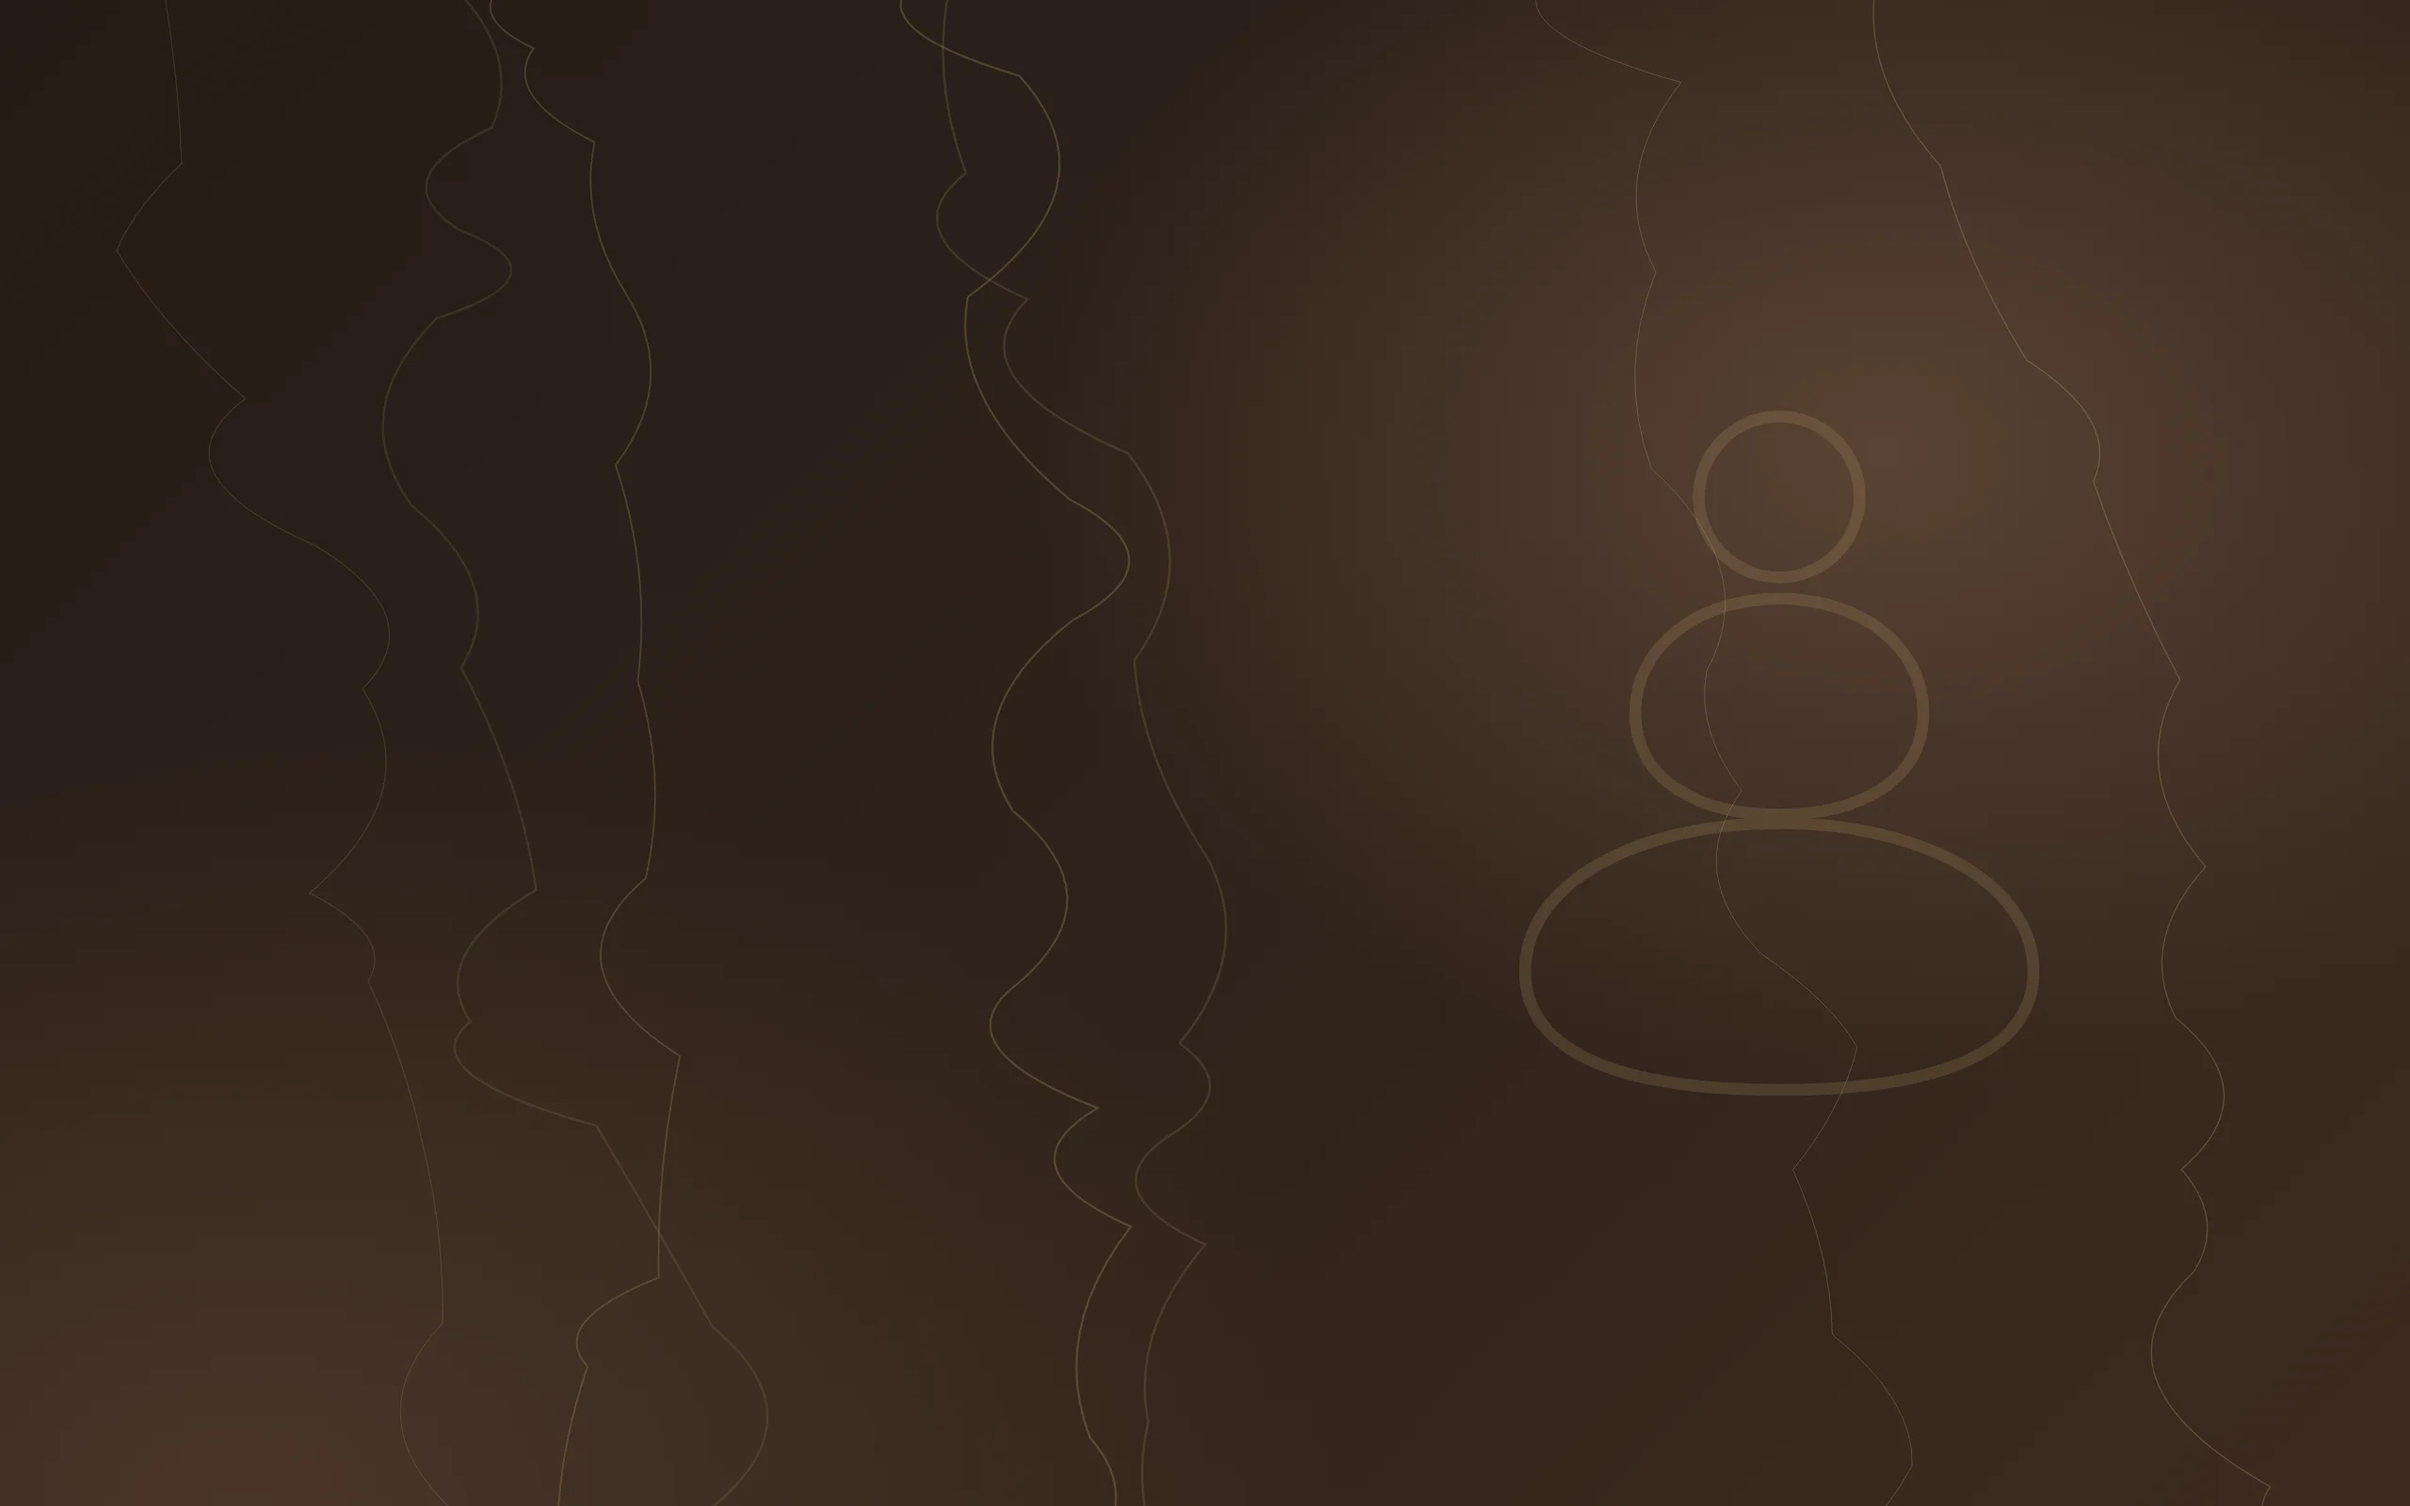
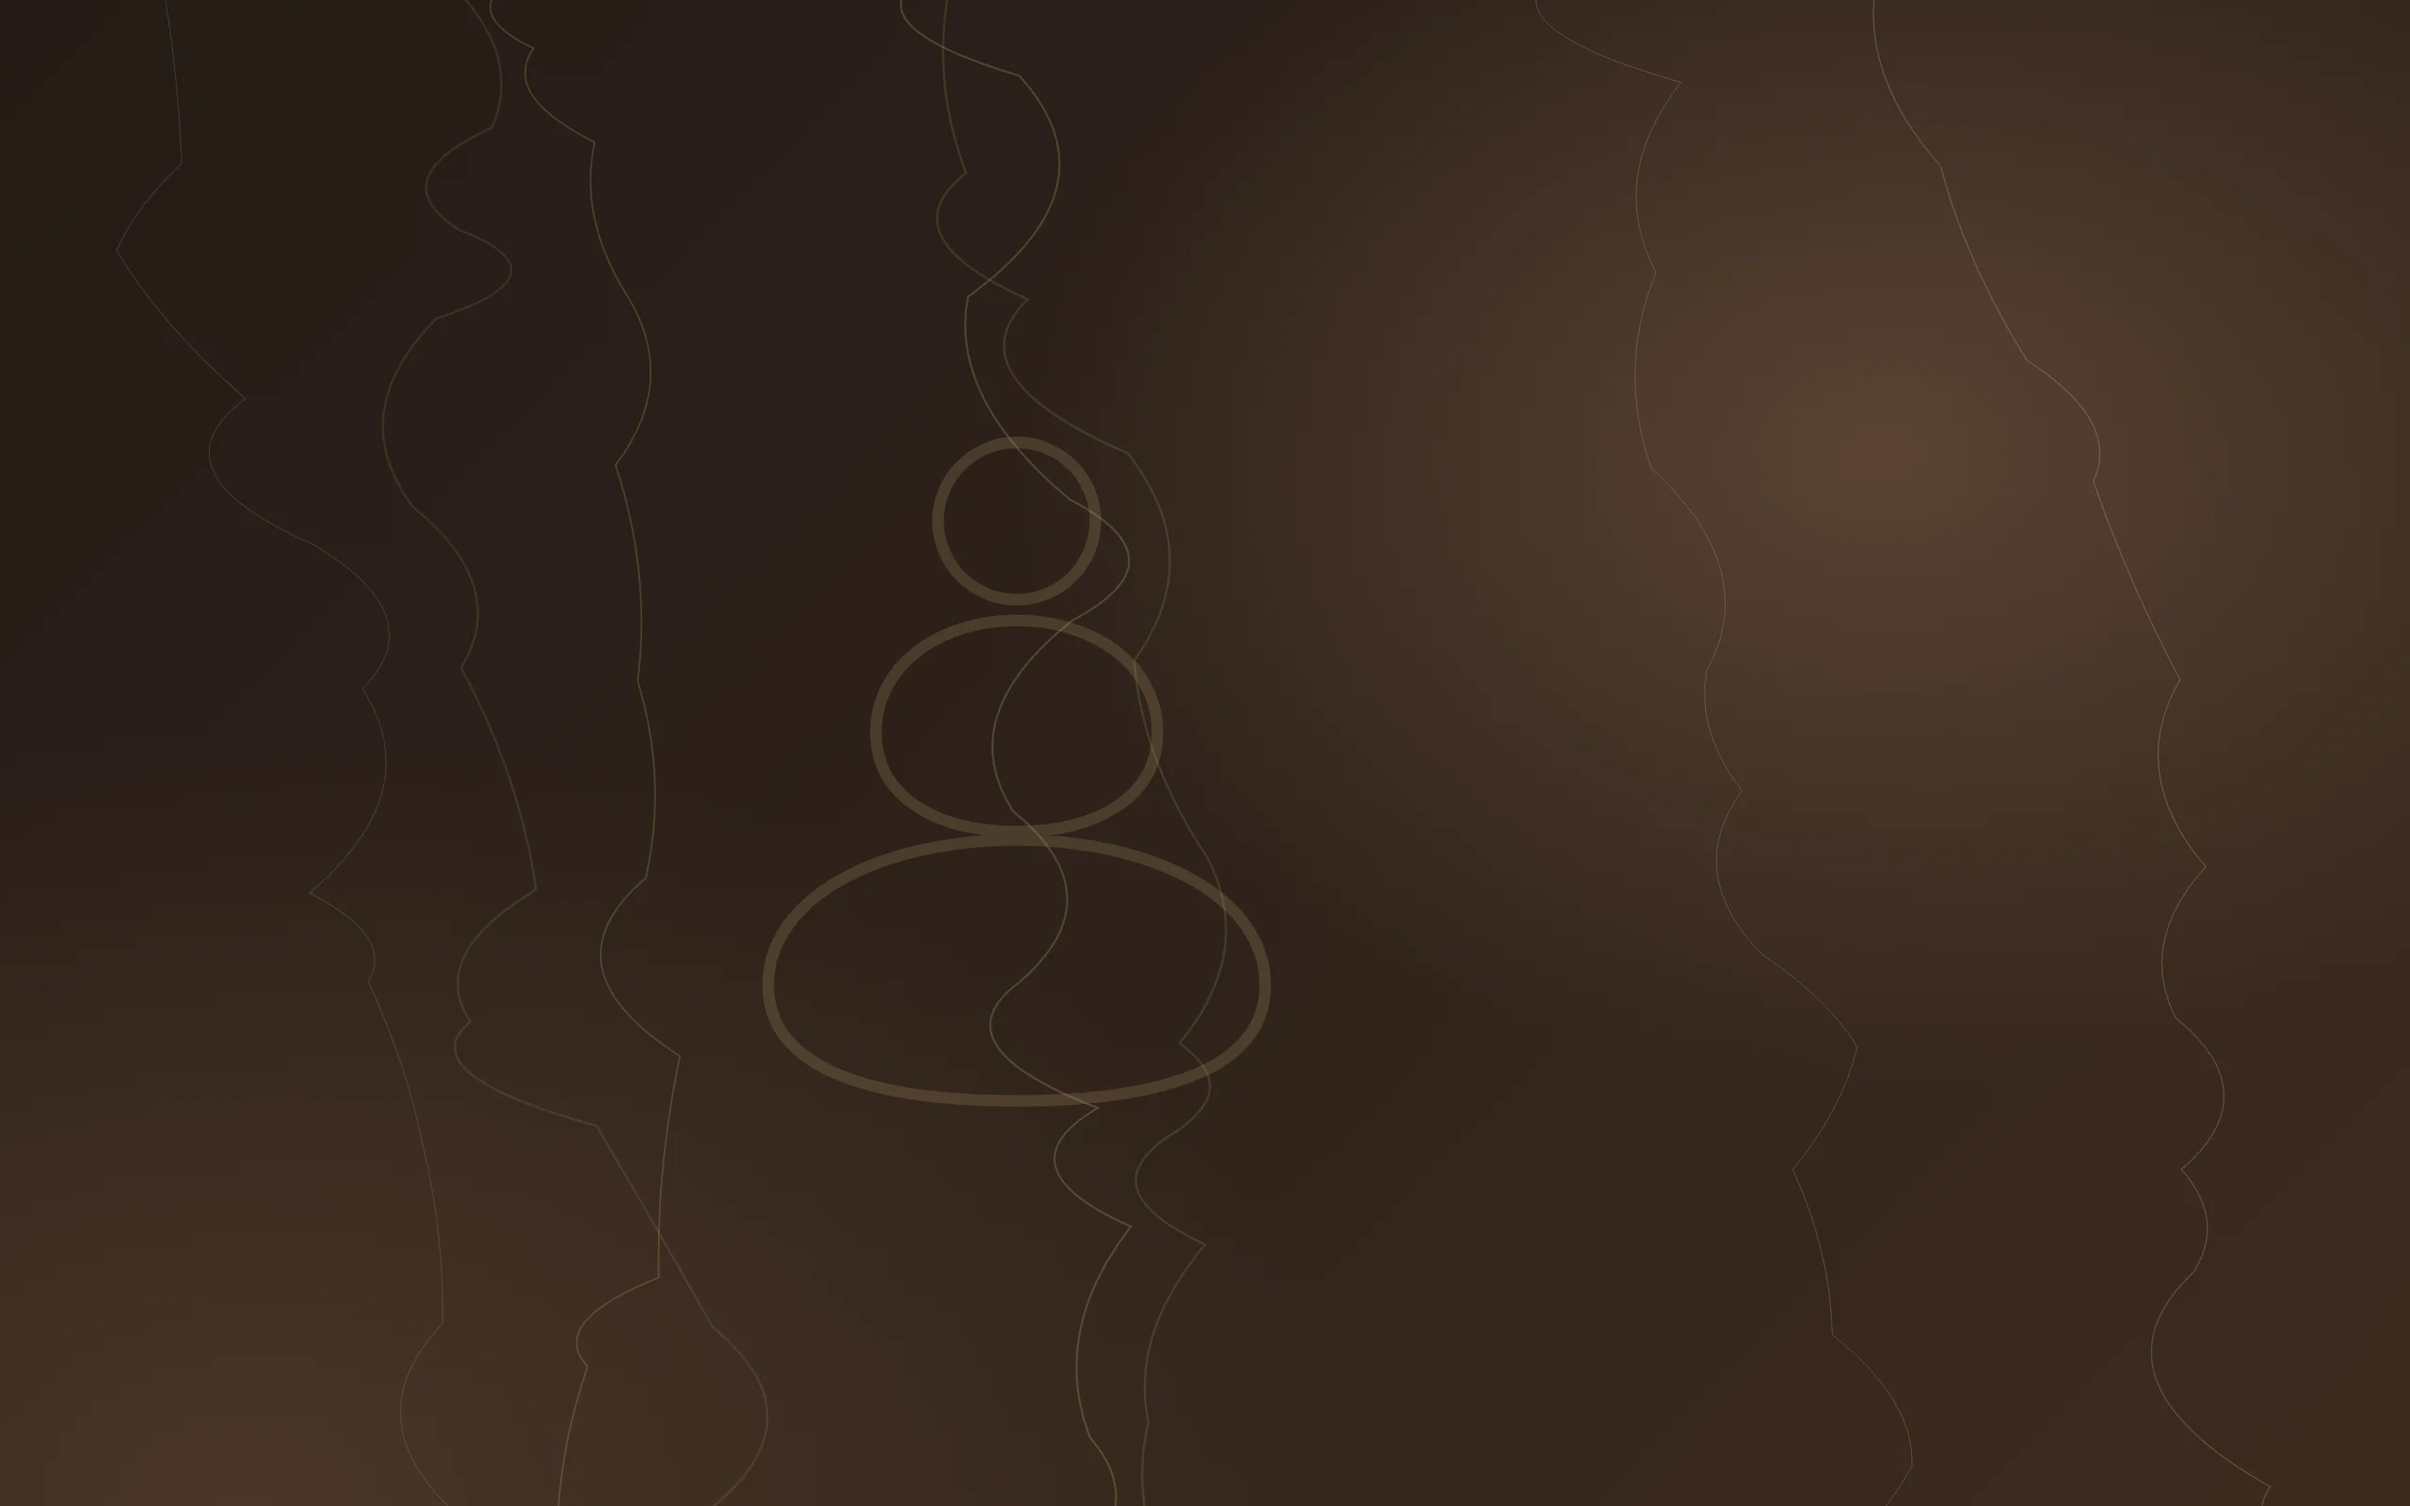
fix(brand): wallpaper Mizu OS & sisa warna hijau NüHabit
- Wallpaper desktop memakai /brand/mizu-wallpaper.webp (nama baru) supaya
  cache browser/Cloudflare wallpaper NüHabit lama tidak terpakai; ikon batu
  digeser ke kiri-tengah agar tidak tertutup panel widget.
- Preset gradien desktop: "Deep Forest" (hijau) -> "Espresso", "Everglade"
  -> "Mocha"; cahaya latar cyan/pink -> emas.
- Skala `pink-*` (warna merek ratusan halaman lama) masih menyisakan hijau
  NüHabit di 500/800/900/950; kini emas -> mocha Mizu.

diff --git a/frontend/src/features/os-desktop/components/desktop/desktop-backdrop.tsx b/frontend/src/features/os-desktop/components/desktop/desktop-backdrop.tsx
@@ -7,8 +7,8 @@ export function DesktopBackdrop({ src }: { src: string }) {
       <div className="absolute inset-0 bg-cover bg-center bg-no-repeat" style={wallpaperBackgroundStyle(src)} />
       <div className="absolute inset-0 bg-black/20" />
       <div className="absolute inset-0 opacity-[0.16] transition-transform duration-500 ease-out [background-image:linear-gradient(rgba(255,255,255,.7)_1px,transparent_1px),linear-gradient(90deg,rgba(255,255,255,.7)_1px,transparent_1px)] [background-size:80px_80px] [transform:translate3d(var(--float-x-reverse),var(--float-y-reverse),0)]" />
-      <div className="pointer-events-none absolute -left-24 top-24 size-72 rounded-full bg-cyan-300/14 blur-3xl transition-transform duration-500 ease-out [transform:translate3d(var(--float-x),var(--float-y),0)]" />
-      <div className="pointer-events-none absolute -right-24 bottom-16 size-80 rounded-full bg-pink-400/14 blur-3xl transition-transform duration-500 ease-out [transform:translate3d(var(--float-x-reverse),var(--float-y-reverse),0)]" />
+      <div className="pointer-events-none absolute -left-24 top-24 size-72 rounded-full bg-[#d6b47a]/14 blur-3xl transition-transform duration-500 ease-out [transform:translate3d(var(--float-x),var(--float-y),0)]" />
+      <div className="pointer-events-none absolute -right-24 bottom-16 size-80 rounded-full bg-[#c49a5c]/12 blur-3xl transition-transform duration-500 ease-out [transform:translate3d(var(--float-x-reverse),var(--float-y-reverse),0)]" />
       <div className="absolute inset-x-0 top-0 h-72 bg-gradient-to-b from-white/10 to-transparent" />
     </>
   );

diff --git a/frontend/src/app/globals.css b/frontend/src/app/globals.css
@@ -9,7 +9,7 @@
    Fungsional: Dark Jungle #33271f, Everglade #5a4334, Lettuce #c49a5c,
    Lemon Lime #f2e3c6, Mint Cream #fffaf2, Golden Ochre #b8893f. Judul Outfit, isi Manrope.
    Palet `pink-*` (dipakai ratusan halaman lama sebagai warna merek) ditimpa skala
-   lime → forest; `gray-*`, `slate-*`, `zinc-*`, `neutral-*` ditimpa tangga netral
+   emas → mocha Mizu; `gray-*`, `slate-*`, `zinc-*`, `neutral-*` ditimpa tangga netral
    hangat dari beige ke ink. Ribuan kelas lama ikut tanpa menyentuh tiap file. */
 @theme {
   --color-pink-50: #fbf3e4;
@@ -17,12 +17,12 @@
   --color-pink-200: #ecd3a6;
   --color-pink-300: #d6b47a;
   --color-pink-400: #c49a5c;
-  --color-pink-500: #4d8a1c;
+  --color-pink-500: #a8834d;
   --color-pink-600: #5a4334;
   --color-pink-700: #3d2b20;
-  --color-pink-800: #001f14;
-  --color-pink-900: #00160e;
-  --color-pink-950: #000d08;
+  --color-pink-800: #2a1f18;
+  --color-pink-900: #1a120d;
+  --color-pink-950: #0d0a08;
 
   --color-gray-50: #f8f4ee;
   --color-gray-100: #f3ece2;

diff --git a/frontend/src/lib/desktop/wallpapers.ts b/frontend/src/lib/desktop/wallpapers.ts
@@ -27,10 +27,11 @@ export interface WallpaperItem {
  * localStorage/user_desktop_prefs — mengganti id akan mereset pilihan user.
  */
 export const BUILTIN_WALLPAPERS: WallpaperItem[] = [
-  { id: "arkiv", name: brandName(), src: "/brand/wallpaper.webp" },
-  { id: "pink", name: "Deep Forest", src: "linear-gradient(135deg,#00160e,#3d2b20 45%,#241b16)" },
+  // Nama file "mizu-…" supaya cache browser wallpaper NüHabit lama tidak terpakai.
+  { id: "arkiv", name: brandName(), src: "/brand/mizu-wallpaper.webp" },
+  { id: "pink", name: "Espresso", src: "linear-gradient(135deg,#1a120d,#3d2b20 45%,#241b16)" },
   { id: "midnight", name: "Midnight", src: "linear-gradient(135deg,#110d0a,#241b16 52%,#33271f)" },
-  { id: "glass", name: "Everglade", src: "linear-gradient(135deg,#5a4334,#241b16 48%,#3d2b20)" },
+  { id: "glass", name: "Mocha", src: "linear-gradient(135deg,#5a4334,#241b16 48%,#3d2b20)" },
 ];
 
 export const DEFAULT_WALLPAPER: WallpaperItem = BUILTIN_WALLPAPERS[0];

diff --git a/frontend/src/features/member-app/auth/member-auth-page.tsx b/frontend/src/features/member-app/auth/member-auth-page.tsx
@@ -352,7 +352,7 @@ function Shell({ children }: { children: ReactNode }) {
       <div className="flex min-h-dvh">
         <aside className="relative hidden flex-1 overflow-hidden bg-nh-ink lg:flex lg:flex-col lg:justify-between lg:p-12">
           {/* eslint-disable-next-line @next/next/no-img-element */}
-          <img src={asset("/brand/wallpaper.webp")} alt="" className="absolute inset-0 size-full object-cover opacity-80" />
+          <img src={asset("/brand/mizu-wallpaper.webp")} alt="" className="absolute inset-0 size-full object-cover opacity-80" />
           {/* eslint-disable-next-line @next/next/no-img-element */}
           <img src={asset("/brand/lockup-white.png")} alt="Mizu" className="relative w-80" />
           <div className="relative text-white">

diff --git a/frontend/src/features/crm/public-form/components/public-form-page.tsx b/frontend/src/features/crm/public-form/components/public-form-page.tsx
@@ -15,7 +15,7 @@ export function PublicFormPage({ form }: { form: PublicFormView }) {
   return (
     <main className="relative min-h-screen bg-[#0d111b]">
       <div className="absolute inset-0">
-        <Image src="/brand/wallpaper.webp" alt="" fill priority className="object-cover opacity-25" sizes="100vw" />
+        <Image src="/brand/mizu-wallpaper.webp" alt="" fill priority className="object-cover opacity-25" sizes="100vw" />
         <div className="absolute inset-0 bg-gradient-to-b from-[#0d111b]/80 via-[#10182e]/85 to-[#0d111b]/95" />
       </div>
 

diff --git a/frontend/src/features/table-order/components/table-order-app.tsx b/frontend/src/features/table-order/components/table-order-app.tsx
@@ -62,7 +62,7 @@ import { OrderTracking } from "./order-tracking";
 import { VariantSheet } from "./variant-sheet";
 import { DecrementSheet } from "./decrement-sheet";
 
-const HERO_IMAGE = "/brand/wallpaper.webp";
+const HERO_IMAGE = "/brand/mizu-wallpaper.webp";
 
 type View = "menu" | "tracking" | "orders";
 
